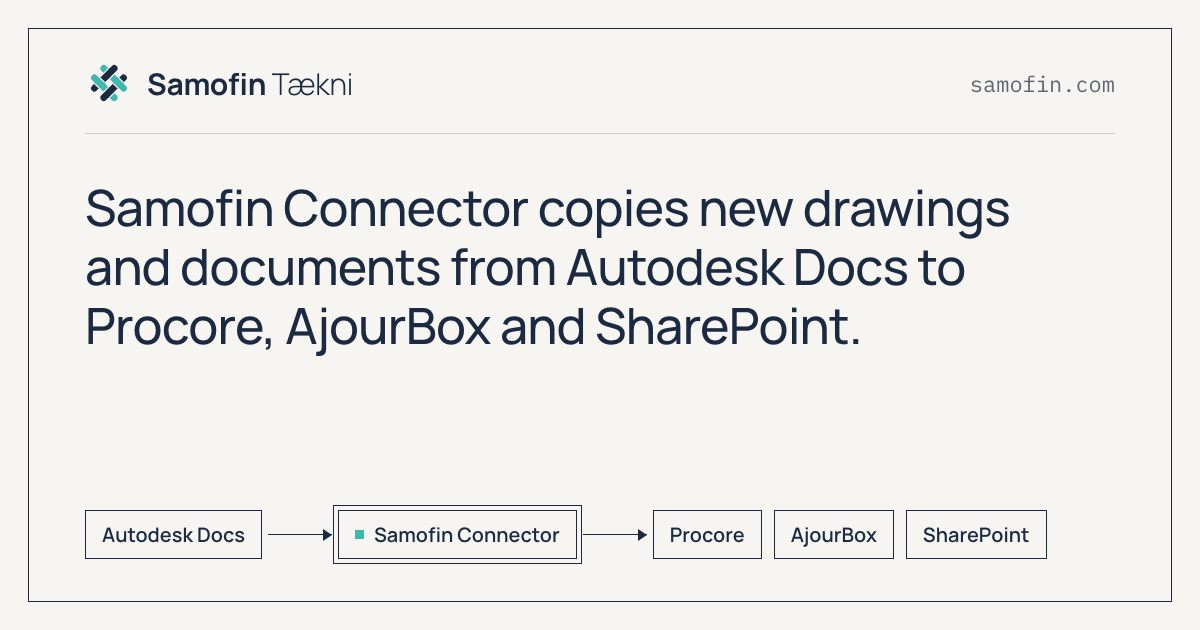
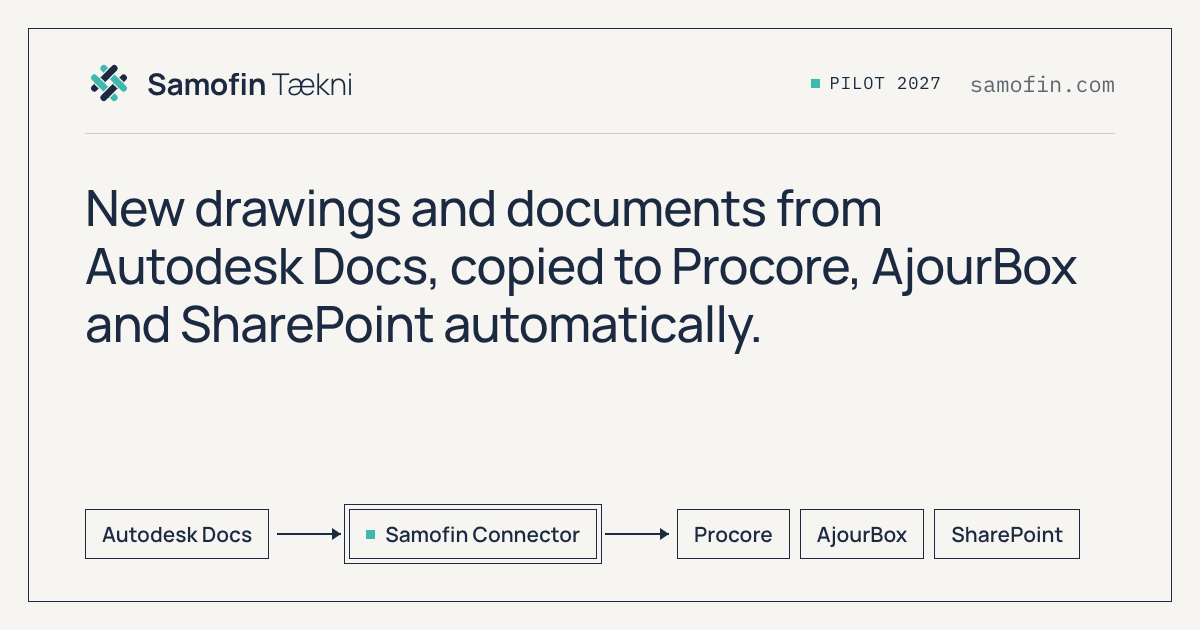
Launch copy: pilot CTA, 4-step setup, FAQ with FAQPage JSON-LD, CDE wording, shorter titles

diff --git a/src/index.html b/src/index.html
@@ -3,8 +3,8 @@
 <head>
 <meta charset="utf-8">
 <meta name="viewport" content="width=device-width, initial-scale=1">
-<title data-i18n="meta.title">Samofin Connector – Sync Autodesk Docs to Procore, AjourBox &amp; SharePoint</title>
-<meta name="description" data-i18n-content="meta.description" content="Samofin Connector copies new drawings and documents from Autodesk Docs (Autodesk Construction Cloud) to Procore, AjourBox and SharePoint automatically. One-way, logged, EU-hosted.">
+<title data-i18n="meta.title">Autodesk Docs to Procore, AjourBox &amp; SharePoint – Samofin</title>
+<meta name="description" data-i18n-content="meta.description" content="Samofin Connector copies new drawings and documents from Autodesk Docs (ACC) to Procore, AjourBox and SharePoint. One-way, fully logged, EU-hosted.">
 <meta name="theme-color" content="#F6F5F1">
 <link rel="canonical" href="https://samofin.com/" data-i18n-href="url.self">
 <link rel="alternate" hreflang="en" href="https://samofin.com/">
@@ -14,8 +14,8 @@
 <meta property="og:url" content="https://samofin.com/" data-i18n-content="url.self">
 <meta property="og:locale" content="en_GB" data-i18n-content="og.locale">
 <meta property="og:locale:alternate" content="is_IS" data-i18n-content="og.locale.alternate">
-<meta property="og:title" content="Samofin Connector – Sync Autodesk Docs to Procore, AjourBox &amp; SharePoint" data-i18n-content="meta.title">
-<meta property="og:description" content="Samofin Connector copies new drawings and documents from Autodesk Docs (Autodesk Construction Cloud) to Procore, AjourBox and SharePoint automatically. One-way, logged, EU-hosted." data-i18n-content="meta.description">
+<meta property="og:title" content="Autodesk Docs to Procore, AjourBox &amp; SharePoint – Samofin" data-i18n-content="meta.title">
+<meta property="og:description" content="Samofin Connector copies new drawings and documents from Autodesk Docs (ACC) to Procore, AjourBox and SharePoint. One-way, fully logged, EU-hosted." data-i18n-content="meta.description">
 <meta property="og:site_name" content="Samofin Tækni">
 <meta property="og:image" content="https://samofin.com/og-image.png">
 <meta property="og:image:width" content="1200">
@@ -51,13 +51,14 @@
       "name": "Samofin Connector",
       "applicationCategory": "BusinessApplication",
       "operatingSystem": "Web",
-      "description": "Copies new drawings and documents from Autodesk Docs (Autodesk Construction Cloud) to Procore, AjourBox and SharePoint. One-way, logged, hosted in the EU.",
+      "description": "Copies new drawings and documents from Autodesk Docs (Autodesk Construction Cloud) to Procore, AjourBox and SharePoint. One-way, fully logged, hosted in the EU.",
       "url": "https://samofin.com/",
       "publisher": { "@id": "https://samofin.com/#org" }
     }
   ]
 }
 </script>
+<!--faq-jsonld-->
 <style>
 @font-face { font-family: 'Manrope'; font-style: normal; font-weight: 300 700; font-display: swap; src: url(/fonts/manrope-latin-var.woff2) format('woff2'); }
 @font-face { font-family: 'IBM Plex Mono'; font-style: normal; font-weight: 400; font-display: swap; src: url(/fonts/ibm-plex-mono-latin-400.woff2) format('woff2'); }
@@ -111,6 +112,14 @@ section { border-top: 1px solid var(--rule); scroll-margin-top: 16px; }
 .split > div { flex: 1 1 420px; max-width: 680px; min-width: 0; }
 .split p { margin: 0; font-size: 18px; line-height: 1.65; color: var(--body); text-wrap: pretty; }
 #pricing { padding-bottom: 80px; }
+.launch { display: flex; flex-wrap: wrap; align-items: center; gap: 14px 22px; margin-top: 36px; }
+.launch .label { display: flex; align-items: center; gap: 8px; color: var(--ink); }
+.launch .label::before { content: ""; width: 7px; height: 7px; background: var(--teal); }
+.cta { display: inline-block; padding: 11px 18px; background: var(--ink); color: var(--paper); font-weight: 600; font-size: 16px; text-decoration: none; }
+.cta:hover { color: var(--paper); background: #24365A; }
+.cta:focus-visible { outline: 2px solid var(--teal); outline-offset: 3px; }
+dl.rows.faq dt { flex: 1 1 100%; font-family: inherit; font-size: 17px; line-height: 1.5; font-weight: 600; letter-spacing: 0; text-transform: none; }
+dl.rows.faq dd { flex-basis: 100%; }
 #pricing a { font-weight: 500; }
 
 /* Diagram: wide/narrow swap at 580px container width */
@@ -230,6 +239,7 @@ dl.rows dd { flex: 1 1 260px; margin: 0; font-size: 17px; line-height: 1.5; colo
           <a href="#how" data-i18n="nav.how">How it works</a>
           <a href="#principles" data-i18n="nav.principles">Principles</a>
           <a href="#pricing" data-i18n="nav.pricing">Pricing</a>
+          <a href="#faq" data-i18n="nav.faq">FAQ</a>
         </nav>
         <div class="header-end">
           <div class="lang" role="group" aria-label="Language" data-i18n-aria-label="lang.label">
@@ -243,13 +253,17 @@ dl.rows dd { flex: 1 1 260px; margin: 0; font-size: 17px; line-height: 1.5; colo
       <main>
         <section id="top" class="hero">
           <h1 data-i18n="hero.title">Samofin Connector copies new drawings and documents from Autodesk Docs to Procore, AjourBox and SharePoint.</h1>
-          <p data-i18n="hero.lede">You choose which folders to follow. Each new version is copied to the matching folder in your site system and logged.</p>
+          <p data-i18n="hero.lede">You choose which folders to follow. Each new version lands in the matching folder in your site system, and every copy is logged.</p>
+          <div class="launch">
+            <a class="cta" href="mailto:hello@samofin.com?subject=Samofin%20Connector%20pilot" data-i18n="hero.cta" data-i18n-href="hero.cta.href">Join the pilot</a>
+            <span class="label" data-i18n="hero.status">Launching 2027 · pilot places open</span>
+          </div>
         </section>
 
         <section id="problem" class="split">
           <h2 data-i18n="problem.title">Every revision is copied by hand.</h2>
           <div>
-            <p data-i18n="problem.body">Architects and engineers publish in Autodesk Docs, part of Autodesk Construction Cloud (ACC). Owners increasingly require it as the project web. Contractors run site work and quality control in other systems. Someone copies every new revision across by hand, and outdated drawings end up on site.</p>
+            <p data-i18n="problem.body">Architects and engineers publish in Autodesk Docs, part of Autodesk Construction Cloud (ACC). Owners increasingly require it as the project’s common data environment (CDE). Contractors run site work and quality control in other systems. Someone copies every new revision across by hand, and outdated drawings end up on site.</p>
           </div>
         </section>
 
@@ -308,9 +322,10 @@ dl.rows dd { flex: 1 1 260px; margin: 0; font-size: 17px; line-height: 1.5; colo
             </figure>
 
             <ol class="rows steps">
-              <li><span class="n">1</span><span class="t" data-i18n="step.connect.t">Connect</span><span class="d" data-i18n="step.connect.d">Your admin authorises read access to the project in Autodesk Docs.</span></li>
-              <li><span class="n">2</span><span class="t" data-i18n="step.map.t">Map</span><span class="d" data-i18n="step.map.d">Choose which folders sync to which folders in your system.</span></li>
-              <li><span class="n">3</span><span class="t" data-i18n="step.sync.t">Sync</span><span class="d" data-i18n="step.sync.d">New versions are copied automatically, and every copy is logged.</span></li>
+              <li><span class="n">1</span><span class="t" data-i18n="step.connect.t">Connect</span><span class="d" data-i18n="step.connect.d">Your Autodesk admin adds Samofin Connector as a custom integration with read-only access.</span></li>
+              <li><span class="n">2</span><span class="t" data-i18n="step.map.t">Map</span><span class="d" data-i18n="step.map.d">Together we choose which Autodesk folders sync to which folders in your site system.</span></li>
+              <li><span class="n">3</span><span class="t" data-i18n="step.review.t">Review</span><span class="d" data-i18n="step.review.d">Before anything is copied, you review a dry run showing exactly what will be created.</span></li>
+              <li><span class="n">4</span><span class="t" data-i18n="step.sync.t">Sync</span><span class="d" data-i18n="step.sync.d">New versions are copied automatically, and every copy is logged.</span></li>
             </ol>
           </div>
         </section>
@@ -320,8 +335,9 @@ dl.rows dd { flex: 1 1 260px; margin: 0; font-size: 17px; line-height: 1.5; colo
           <div>
             <dl class="rows">
               <div><dt data-i18n="p.oneway.t">One-way</dt><dd data-i18n="p.oneway.d">Reads from the source, never writes to it.</dd></div>
-              <div><dt data-i18n="p.nodelete.t">Never deletes</dt><dd data-i18n="p.nodelete.d">Removed files are flagged, not deleted.</dd></div>
-              <div><dt data-i18n="p.logged.t">Logged</dt><dd data-i18n="p.logged.d">Every file, every version, when and where.</dd></div>
+              <div><dt data-i18n="p.nodelete.t">Never deletes</dt><dd data-i18n="p.nodelete.d">Nothing is deleted in your site system. Files removed in Autodesk are flagged for review.</dd></div>
+              <div><dt data-i18n="p.versions.t">Versions, not copies</dt><dd data-i18n="p.versions.d">A new revision becomes a new version of the same file, so history stays in one place.</dd></div>
+              <div><dt data-i18n="p.logged.t">Logged</dt><dd data-i18n="p.logged.d">An append-only log of every file and version: what, when and where.</dd></div>
               <div><dt data-i18n="p.eu.t">EU-hosted</dt><dd data-i18n="p.eu.d">Hosted in the EU (Google Cloud, Finland).</dd></div>
             </dl>
           </div>
@@ -331,6 +347,21 @@ dl.rows dd { flex: 1 1 260px; margin: 0; font-size: 17px; line-height: 1.5; colo
           <h2 data-i18n="pricing.title">Per company, then per project.</h2>
           <div>
             <p><span data-i18n="pricing.body">One setup fee per company, then a fixed monthly fee per active project. Finished projects can be archived at no cost.</span> <a href="mailto:hello@samofin.com?subject=Quote%20for%20Samofin%20Connector" data-i18n="pricing.cta" data-i18n-href="pricing.href">Ask for a quote.</a></p>
+          </div>
+        </section>
+
+        <section id="faq" class="split">
+          <h2 data-i18n="faq.title">Questions and answers.</h2>
+          <div>
+            <dl class="rows faq">
+              <div><dt data-i18n="faq.types.q">Which file types are synced?</dt><dd data-i18n="faq.types.a">All of them. Every file in a mapped folder is copied as it is: PDF, DWG, IFC, RVT, Office files and anything else.</dd></div>
+              <div><dt data-i18n="faq.speed.q">How fast does a new version arrive?</dt><dd data-i18n="faq.speed.a">Within the hour. Mapped folders are checked for changes every 15 minutes by default.</dd></div>
+              <div><dt data-i18n="faq.perms.q">What access does it need?</dt><dd data-i18n="faq.perms.a">Read-only access to Autodesk Docs, which your Autodesk account admin grants as a custom integration. In your site system, a dedicated service account with access only to the projects or sites you choose. It never writes to Autodesk and never deletes anything.</dd></div>
+              <div><dt data-i18n="faq.setup.q">How long does setup take?</dt><dd data-i18n="faq.setup.a">A few weeks from agreement to go-live. We set up the folder mapping with you, you review a dry run, and the connector then runs alongside your current process for one to two weeks before you switch over.</dd></div>
+              <div><dt data-i18n="faq.revisions.q">What happens when a drawing is revised?</dt><dd data-i18n="faq.revisions.a">The new revision is added as a new version of the same file in your site system, so the history is kept and nothing is duplicated. Older versions are never removed, and renamed or moved files are tracked rather than uploaded again.</dd></div>
+              <div><dt data-i18n="faq.targets.q">Which systems does it support?</dt><dd data-i18n="faq.targets.a">Autodesk Docs (Autodesk Construction Cloud) as the source, and Procore, AjourBox and SharePoint as targets. One Autodesk project can feed several targets at once.</dd></div>
+              <div><dt data-i18n="faq.start.q">When can we start?</dt><dd data-i18n="faq.start.a">Samofin Connector launches in 2027, and we are taking on pilot customers now. Pilot customers help shape the product and get set up first.</dd></div>
+            </dl>
           </div>
         </section>
       </main>
@@ -360,7 +391,7 @@ dl.rows dd { flex: 1 1 260px; margin: 0; font-size: 17px; line-height: 1.5; colo
             <div><div class="label" data-i18n="tb.scale">SCALE</div><div class="v">NTS</div></div>
             <div><div class="label" data-i18n="tb.sheet">SHEET</div><div class="v">1 / 1</div></div>
           </div>
-          <div class="tb-status" data-i18n="tb.status">Status: in development, pilot projects 2026</div>
+          <div class="tb-status" data-i18n="tb.status">Status: launching 2027, pilot places open</div>
         </div>
       </footer>
 

diff --git a/og/og-image.html b/og/og-image.html
@@ -1,0 +1,45 @@
+<!DOCTYPE html>
+<!-- Source for src/og-image.png (1200×630). Regenerate with: npm run og -->
+<html><head><meta charset="utf-8">
+<style>
+@font-face { font-family: 'Manrope'; font-weight: 300 700; src: url(../src/fonts/manrope-latin-var.woff2) format('woff2'); }
+@font-face { font-family: 'IBM Plex Mono'; font-weight: 400; src: url(../src/fonts/ibm-plex-mono-latin-400.woff2) format('woff2'); }
+:root { --ink: #1B2A41; --paper: #F6F5F1; --teal: #3FB8AF; --muted: #5E6672; --rule: #CFCEC8; --mono: 'IBM Plex Mono', monospace; }
+html, body { margin: 0; width: 1200px; height: 630px; background: var(--paper); color: var(--ink); font-family: 'Manrope', sans-serif; -webkit-font-smoothing: antialiased; }
+.sheet { position: absolute; inset: 28px; border: 1.5px solid var(--ink); display: flex; flex-direction: column; padding: 0 56px; }
+.top { display: flex; align-items: center; justify-content: space-between; padding: 30px 0 26px; border-bottom: 1px solid var(--rule); }
+.brand { display: flex; align-items: center; gap: 14px; font-size: 30px; font-weight: 700; letter-spacing: -0.01em; }
+.brand img { width: 48px; height: 48px; }
+.brand span { font-weight: 300; }
+.url { font-family: var(--mono); font-size: 22px; color: var(--muted); }
+h1 { margin: 44px 0 0; max-width: 1000px; font-size: 50px; line-height: 1.16; font-weight: 500; letter-spacing: -0.015em; }
+.bottom { display: flex; align-items: center; justify-content: space-between; margin-top: auto; margin-bottom: 42px; }
+.flow { display: flex; align-items: center; font-size: 21px; font-weight: 600; }
+.box { border: 1.5px solid var(--ink); padding: 10px 16px; white-space: nowrap; }
+.hub { outline: 1.5px solid var(--ink); outline-offset: 4px; display: flex; align-items: center; gap: 10px; }
+.hub::before { content: ""; width: 9px; height: 9px; background: var(--teal); }
+.edge { width: 64px; height: 1.5px; background: var(--ink); position: relative; margin: 0 8px; }
+.edge::after { content: ""; position: absolute; right: 0; top: -5px; border-left: 9px solid var(--ink); border-top: 6px solid transparent; border-bottom: 6px solid transparent; }
+.targets { display: flex; gap: 10px; }
+.meta { display: flex; align-items: center; gap: 28px; }
+.status { display: flex; align-items: center; gap: 10px; font-family: var(--mono); font-size: 17px; letter-spacing: 0.06em; }
+.status::before { content: ""; width: 9px; height: 9px; background: var(--teal); }
+</style></head>
+<body>
+<div class="sheet">
+  <div class="top">
+    <div class="brand"><img src="../src/samofin-mark.svg" alt=""><div>Samofin <span>Tækni</span></div></div>
+    <div class="meta"><div class="status">PILOT 2027</div><div class="url">samofin.com</div></div>
+  </div>
+  <h1>New drawings and documents from Autodesk Docs, copied to Procore, AjourBox and SharePoint automatically.</h1>
+  <div class="bottom">
+    <div class="flow">
+      <div class="box">Autodesk Docs</div>
+      <div class="edge"></div>
+      <div class="box hub">Samofin Connector</div>
+      <div class="edge"></div>
+      <div class="targets"><div class="box">Procore</div><div class="box">AjourBox</div><div class="box">SharePoint</div></div>
+    </div>
+  </div>
+</div>
+</body></html>
